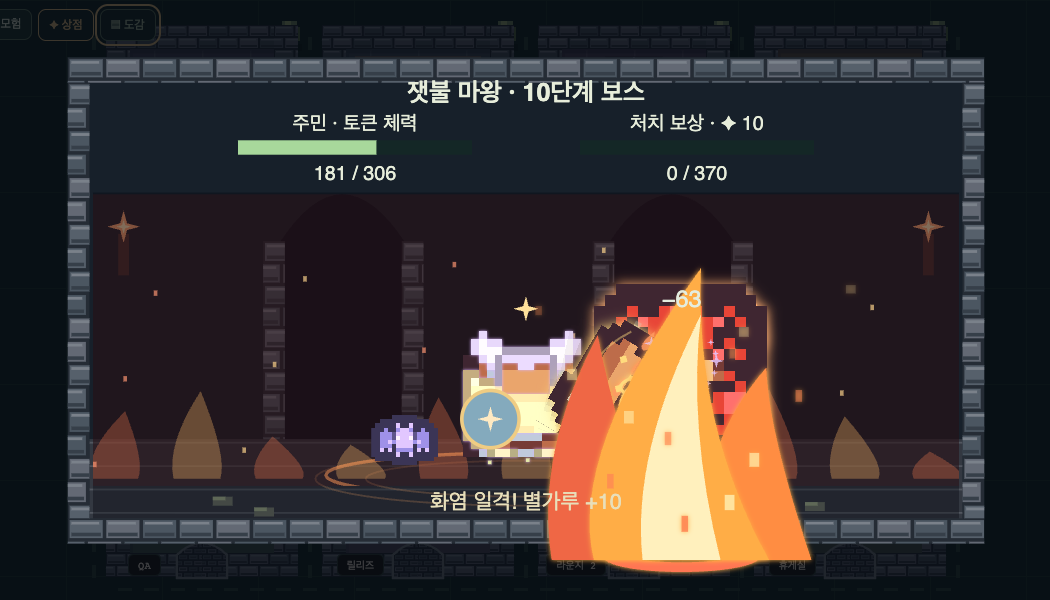
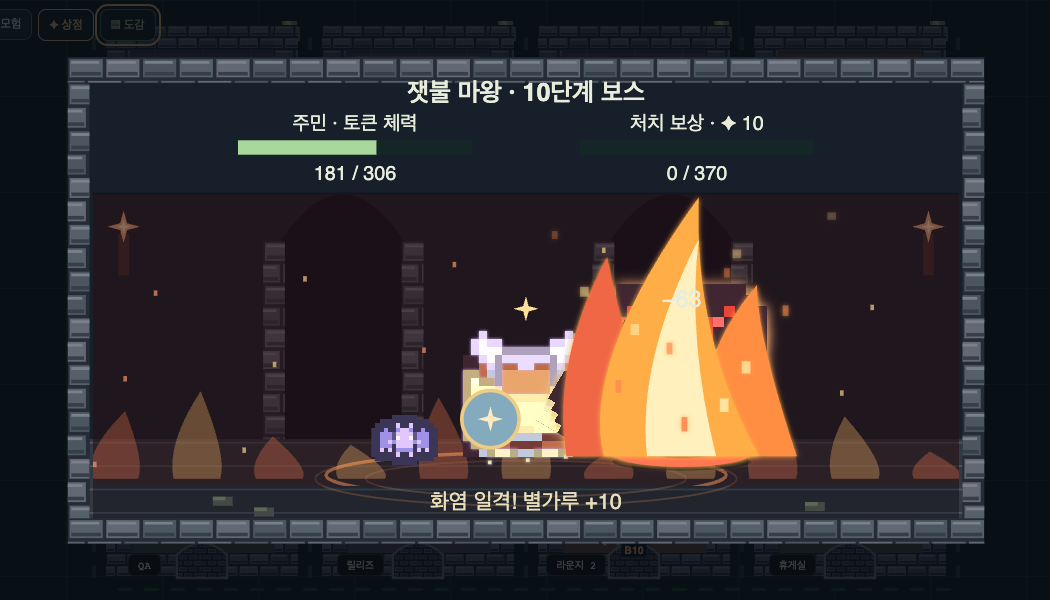
Rename app to AgentTown and dim the full window during battles

Changed region(s): [[0.5181, 0.33, 0.7924, 0.96], [0.7924, 0.48, 0.8229, 0.51], [0.4876, 0.51, 0.5181, 0.54]]

diff --git a/town.html b/town.html
@@ -1,5 +1,5 @@
 <!doctype html>
-<html lang="ko"><head><meta charset="utf-8"><meta name="viewport" content="width=device-width,initial-scale=1"><title>CodexTown · 나의 작은 작업실</title>
+<html lang="ko"><head><meta charset="utf-8"><meta name="viewport" content="width=device-width,initial-scale=1"><title>AgentTown · 나의 작은 작업실</title>
 <style>
   html,body{margin:0;height:100%;background:#2a2622;overflow:hidden}
   canvas{display:block;image-rendering:pixelated;cursor:grab}
@@ -46,7 +46,7 @@
 </style><link rel="stylesheet" href="/town-ui.css"><link rel="stylesheet" href="/town-journal.css"></head><body>
 <a class="skip-link" href="#task-search">작업 검색으로 이동</a>
 <header class="topbar">
-  <div class="brand"><canvas id="brand-avatar" width="32" height="32" class="brand-icon" aria-hidden="true"></canvas><div><h1>CodexTown</h1><small>나의 작은 작업실</small></div></div>
+  <div class="brand"><canvas id="brand-avatar" width="32" height="32" class="brand-icon" aria-hidden="true"></canvas><div><h1>AgentTown</h1><small>나의 작은 작업실</small></div></div>
   <div class="header-actions"><span class="live" id="connection-state" role="status"><i class="live-dot"></i><span>연결 중</span></span><button id="notification-toggle" class="quiet-button" aria-pressed="true" title="소리 없이 배너로 알립니다"><svg viewBox="0 0 24 24" fill="none" stroke="currentColor" stroke-width="1.5" aria-hidden="true"><path d="M18 8a6 6 0 0 0-12 0c0 7-3 7-3 9h18c0-2-3-2-3-9M10 21h4"/><path d="M3 3l18 18"/></svg><span>무음 배너</span></button><button class="mobile-roster-toggle" id="mobile-roster" aria-expanded="false" aria-controls="roster">작업 목록</button><time id="local-clock" class="header-time"></time></div>
 </header>
 <main class="workspace" id="workspace">
@@ -1556,7 +1556,7 @@ function drawDuelSpotlight() {
   const element=skill?.element??(pb?.upcoming?.final&&pb.upcoming.skill?pb.upcoming.element:undefined)??(pb?.hit?.final&&pb.hit.skill?pb.hit.element:window.townAdventure?.elementFor?.(d.winner)??hashSeed(d.winner.key)%5);
   const mood=pb?(pb.finalApproach?1:pb.charging?pb.charge:pb.skillApproach?.65:pb.skillCharging?pb.skillCharge*.65:skillHit?(1-impactAge/window.townAdventure.skillDuration)*.6:finalAge>=0?window.townAdventure.finishFade(finalAge,!!d.legendary):0):t<2.86?Math.max(0,Math.min(1,(t-1.9)/.96)):(window.townAdventure?.finishFade?.(t-2.86)||0);
   // Dim the scene around the final strike while keeping the combatants bright.
-  ctx.save();ctx.fillStyle=`rgba(4,10,15,${(.48+mood*.28)*opacity})`;ctx.fillRect(0,0,cv.width,cv.height);ctx.restore();
+  drawBattleBackdrop(`rgba(4,10,15,${(.48+mood*.28)*opacity})`);
   ctx.save();ctx.translate(cv.width/2,cv.height/2);
   ctx.scale(dpr*k*pop,dpr*k*pop);ctx.globalAlpha=opacity;
   const shake=impactAge>=0&&impactAge<.16?3*(1-impactAge/.16):0;
@@ -2795,14 +2795,20 @@ battleLayer.style.cssText='position:fixed;inset:0;margin:0;width:100vw;height:10
 const battleCanvas=document.createElement('canvas');battleCanvas.style.cssText='position:absolute;pointer-events:none';battleLayer.append(battleCanvas);document.body.append(battleLayer);
 const battleStyle=document.createElement('style');battleStyle.textContent='#battle-foreground::backdrop{background:transparent;pointer-events:none}';document.head.append(battleStyle);
 new MutationObserver(records=>{if(battleLayer.matches(':popover-open')&&records.some(r=>r.target.tagName==='DIALOG'&&r.target.open)){battleLayer.hidePopover();battleLayer.showPopover();}}).observe(document.body,{subtree:true,attributes:true,attributeFilter:['open']});
+function drawBattleBackdrop(color){
+ if(ctx.canvas===battleCanvas){battleBackdropColor=color;return;}
+ ctx.save();ctx.fillStyle=color;ctx.fillRect(0,0,cv.width,cv.height);ctx.restore();
+}
+let battleBackdropColor='transparent';
 function drawBattleForeground(){
  const live=window.townAdventure?.active||window.townEvents?.active||selectFeaturedDuel(performance.now());
  if(!live||window.townUI?.motionReduced){if(battleLayer.matches(':popover-open'))battleLayer.hidePopover();return;}
  if(!battleLayer.matches(':popover-open'))battleLayer.showPopover();
  const rect=cv.getBoundingClientRect();battleCanvas.style.left=rect.left+'px';battleCanvas.style.top=rect.top+'px';battleCanvas.style.width=rect.width+'px';battleCanvas.style.height=rect.height+'px';
  if(battleCanvas.width!==cv.width)battleCanvas.width=cv.width;if(battleCanvas.height!==cv.height)battleCanvas.height=cv.height;
+ battleBackdropColor='transparent';
  const mapContext=ctx;ctx=battleCanvas.getContext('2d');ctx.resetTransform();ctx.clearRect(0,0,cv.width,cv.height);ctx.imageSmoothingEnabled=false;
- try{drawDuelSpotlight();window.townAdventure?.drawBattle();window.townEvents?.drawBattle();}finally{ctx=mapContext;}
+ try{drawDuelSpotlight();window.townAdventure?.drawBattle();window.townEvents?.drawBattle();}finally{ctx=mapContext;battleLayer.style.background=battleBackdropColor;}
 }
 
 // --- 인터랙션: 휠 줌 · 드래그 팬 · 호버 툴팁 · 방 하이라이트 -------------------

diff --git a/app/src/main.js b/app/src/main.js
@@ -10,7 +10,9 @@ const URL = `http://127.0.0.1:${PORT}`;
 const ASSETS = path.join(__dirname, '..', 'assets');
 let win, tray, server, quitting = false;
 let notificationsEnabled = true;
-app.setName('CodexTown');
+// Preserve the existing Chromium profile, inventory and notification preferences.
+app.setPath('userData', path.join(app.getPath('appData'), 'CodexTown'));
+app.setName('AgentTown');
 if (!app.requestSingleInstanceLock()) app.quit();
 else {
   app.on('second-instance', (_event, argv) => {
@@ -19,7 +21,7 @@ else {
     else show();
   });
   app.whenReady().then(start).catch(err => {
-    dialog.showErrorBox('CodexTown 실행 실패', err.message);
+    dialog.showErrorBox('AgentTown 실행 실패', err.message);
     app.quit();
   });
 }
@@ -55,7 +57,7 @@ async function startServer() {
       if (failed || child.exitCode !== null) break;
       if (await health()) {
         child.on('exit', () => {
-          if (!quitting && server === child) dialog.showErrorBox('CodexTown 연결 종료', '세션 서버가 종료되었습니다. 앱을 다시 열어 주세요.');
+          if (!quitting && server === child) dialog.showErrorBox('AgentTown 연결 종료', '세션 서버가 종료되었습니다. 앱을 다시 열어 주세요.');
         });
         return;
       }
@@ -74,7 +76,7 @@ async function start() {
   if (process.platform === 'win32') app.setAppUserModelId('com.codextown.app');
   try { notificationsEnabled = JSON.parse(fs.readFileSync(path.join(app.getPath('userData'), 'preferences.json'), 'utf8')).notifications !== false; } catch {}
   await startServer();
-  win = new BrowserWindow({ width: 1440, height: 920, minWidth: 380, minHeight: 460, title: 'CodexTown',
+  win = new BrowserWindow({ width: 1440, height: 920, minWidth: 380, minHeight: 460, title: 'AgentTown',
     backgroundColor: '#122623', icon: path.join(ASSETS, 'icon.png'),
     webPreferences: { preload: path.join(__dirname, 'preload.js'), contextIsolation: true, nodeIntegration: false, sandbox: true, backgroundThrottling: false },
   });
@@ -86,10 +88,10 @@ async function start() {
   await win.loadURL(URL);
   let icon = nativeImage.createFromPath(path.join(ASSETS, 'icon.png')).resize({ width: 18, height: 18 });
   tray = new Tray(icon);
-  tray.setToolTip('CodexTown');
+  tray.setToolTip('AgentTown');
   tray.on('click', show);
   tray.setContextMenu(Menu.buildFromTemplate([
-    { label: 'CodexTown 열기', click: show },
+    { label: 'AgentTown 열기', click: show },
     { label: '알림 테스트', click: () => notifyWaiting({ title: '소리 없는 배너 알림입니다.', kind: 'ask' }) },
     { label: '항상 위에 표시', type: 'checkbox', click: item => win.setAlwaysOnTop(item.checked) },
     { type: 'separator' }, { label: '종료', click: () => app.quit() },
@@ -106,7 +108,7 @@ function notifyWaiting({ title, label, sid, kind }) {
   if (recentNotifications.has(key)) return;
   recentNotifications.set(key, now);
   const notification = new Notification({
-    title: kind === 'ask' ? 'CodexTown — 응답 요청' : 'CodexTown — 응답 완료',
+    title: kind === 'ask' ? 'AgentTown — 응답 요청' : 'AgentTown — 응답 완료',
     body: String(title || label || '작업을 확인해 주세요').slice(0, 180),
     silent: true,
   });
@@ -125,7 +127,7 @@ ipcMain.handle('notifications:set', (_event, enabled) => {
 ipcMain.handle('notifications:test', () => notifyWaiting({ title: '소리 없는 배너 알림입니다.', kind: 'ask' }));
 ipcMain.handle('notify-waiting', (_event, message) => notifyWaiting(message));
 ipcMain.on('waiting-count', (_event, count) => {
-  if (tray) tray.setToolTip(`CodexTown — 응답 대기 ${Math.max(0, Number(count) || 0)}개`);
+  if (tray) tray.setToolTip(`AgentTown — 응답 대기 ${Math.max(0, Number(count) || 0)}개`);
 });
 app.on('activate', show);
 app.on('window-all-closed', () => {});

diff --git a/tools/browser-battle-backdrop-e2e.js b/tools/browser-battle-backdrop-e2e.js
@@ -1,0 +1,20 @@
+async page=>{
+ await page.route('**/events',r=>r.fulfill({contentType:'text/event-stream',body:': fixture\n\n'}));await page.goto('http://127.0.0.1:8869');await page.waitForFunction(()=>window.townEvents&&SHEETS.dungeon.img);
+ const results=[];
+ for(const width of [960,1440]){
+  await page.setViewportSize({width,height:700});
+  await page.evaluate(()=>{cancelAnimationFrame(frameRequest);window.backdropNow=(window.backdropNow||100000)+1000000;performance.now=()=>backdropNow;townUI.motionReduced=false;townUI.roomView='all';updateRoomView();fitCanvas();townEvents.cancel();townAdventure.cancel();roomDuels.clear();for(const k of Object.keys(avatars))delete avatars[k];state.sessionInfo={};const r=ROOM_BY_ROLE.waiting;window.backdropActors=[0,1].map(i=>{const key='Backdrop|'+i,a=avatars[key]={key,proj:'Backdrop',sid:''+i,idx:84+i,role:'waiting',x:r.gx+2+i*2,y:r.gy+4,tx:r.gx+2+i*2,ty:r.gy+4};state.sessionInfo[key]={title:'전투 배경 확인 '+i,tokens:1e7,state:'working'};return a;});window.dispatchEvent(new Event('town:sessions'));});
+  for(const mode of ['monster','duel','raid']){
+   await page.evaluate(mode=>{townEvents.cancel();townAdventure.cancel();backdropNow+=70000;for(const d of roomDuels)endDuel(d);if(mode==='monster'){townAdventure.monsters.length=0;townAdventure.begin(backdropActors[0],townAdventure.spawn('waiting',true));}else if(mode==='duel'){backdropActors.forEach(a=>{a.duelAfter=0;});beginDuel(...backdropActors,performance.now());if(!backdropActors[0].duel)throw Error('duel fixture');backdropActors[0].duel.start-=500;stepDuels(performance.now());}else if(!townEvents.startRaid(backdropActors))throw Error('raid fixture');draw();},mode);
+   if(width<1100)await page.getByRole('button',{name:'작업 목록',exact:true}).click();
+   const state=await page.evaluate(()=>{draw();const layer=battleLayer.getBoundingClientRect(),panel=document.querySelector('.roster').getBoundingClientRect();return {open:battleLayer.matches(':popover-open'),color:getComputedStyle(battleLayer).backgroundColor,covers:layer.left<=panel.left&&layer.right>=panel.right&&layer.top<=panel.top&&layer.bottom>=panel.bottom};});
+   if(!state.open||!state.covers||state.color==='rgba(0, 0, 0, 0)')throw Error('roster not dimmed: '+JSON.stringify({width,mode,...state}));
+   await page.screenshot({path:'/tmp/agenttown-backdrop-'+width+'-'+mode+'.png'});
+   if(width<1100)await page.locator('.close-roster').click();
+   await page.evaluate(()=>{townEvents.cancel();townAdventure.cancel();for(const d of roomDuels)endDuel(d);draw();});
+   if(await page.locator('#battle-foreground').evaluate(e=>e.matches(':popover-open')))throw Error('backdrop remains after battle');
+   results.push({width,mode,color:state.color});
+  }
+ }
+ return results;
+}

diff --git a/app/test-notifications.js b/app/test-notifications.js
@@ -5,7 +5,7 @@ const fs = require('node:fs');
 const vm = require('node:vm');
 const path = require('node:path');
 function harness() {
-  const handlers = {}, shown = [], opened = [];
+  const handlers = {}, shown = [], opened = [], settings = {};
   class Notification {
     static isSupported() { return true; }
     constructor(options) { this.options = options; this.events = {}; }
@@ -13,7 +13,7 @@ function harness() {
     show() { shown.push(this); }
   }
   const electron = {
-    app: { setName() {}, requestSingleInstanceLock: () => false, quit() {}, on() {} },
+    app: { setName(name) {settings.name=name;}, getPath: () => '/fixture/appData', setPath(key,value) {settings[key]=value;}, requestSingleInstanceLock: () => false, quit() {}, on() {} },
     ipcMain: { handle: (name, fn) => handlers[name] = fn, on() {} },
     shell: { openExternal: async url => opened.push(url) }, Notification,
   };
@@ -21,7 +21,7 @@ function harness() {
     require: name => name === 'electron' ? electron : name === './server-command' ? require('./src/server-command') : require(name),
     __dirname: path.join(__dirname, 'src'), process, console, setTimeout,
   });
-  return { handlers, shown, opened };
+  return { handlers, shown, opened, settings };
 }
 test('question notification requests an answer and opens the exact task', async () => {
   const h = harness(), sid = '01a08a9a-847c-70a0-8a7b-ab6dcd26b65a';
@@ -36,4 +36,10 @@ test('question plus waiting transition produces only one notification', () => {
   h.handlers['notify-waiting']({}, { title: '테스트', sid, kind: 'ask' });
   h.handlers['notify-waiting']({}, { title: '테스트', sid, kind: 'waiting' });
   assert.equal(h.shown.length, 1);
+});
+
+test('AgentTown retains the existing CodexTown profile', () => {
+  const h=harness();
+  assert.equal(h.settings.name,'AgentTown');
+  assert.equal(h.settings.userData,path.join('/fixture/appData','CodexTown'));
 });

diff --git a/town-events.js b/town-events.js
@@ -169,7 +169,7 @@ function drawBattle(){
  const width=cv.width/dpr-24,height=cv.height/dpr-24;if(width<=0||height<=0)return;
  const arenaHeight=Math.min(470,310+Math.max(0,Math.ceil(r.members.length/4)-2)*36),arenaWidth=Math.min(820,Math.max(450,width/height*arenaHeight)),scale=Math.min(1.65,width/arenaWidth,height/arenaHeight),edge=arenaWidth/2,formation=raidFormation(r.members.length,arenaWidth,arenaHeight);
  const skillDuration=g.skillDuration||1.4,playerCharge=r.phase==='playerCharge',chargedMove=['playerApproach','playerWindup'].includes(r.phase)&&(r.finishing||r.pending.skill),charge=chargedMove?1:playerCharge?Math.min(1,(time-r.phaseAt)/(r.next-r.phaseAt)):r.phase==='bossWindup'&&(r.special||r.bossPlan?.kind==='wave')?Math.min(1,(time-r.phaseAt)/(r.next-r.phaseAt)):0,element=r.pending?.element??(r.actor?g.elementFor(r.actor.a):4)??4;
- ctx.save();ctx.fillStyle=`rgba(3,7,15,${.68+charge*.18})`;ctx.fillRect(0,0,cv.width,cv.height);ctx.translate(cv.width/2,cv.height/2);ctx.scale(dpr*scale,dpr*scale);
+ drawBattleBackdrop(`rgba(3,7,15,${.68+charge*.18})`);ctx.save();ctx.translate(cv.width/2,cv.height/2);ctx.scale(dpr*scale,dpr*scale);
  ctx.save();ctx.scale(1,arenaHeight/270);g.chamber?.(r.monster.kind,arenaWidth);ctx.restore();ctx.fillStyle='#13202b';ctx.fillRect(-edge+14,-arenaHeight/2+10,arenaWidth-28,64);g.atmosphere?.(playerCharge||chargedMove?element:4,charge,t,arenaWidth,formation.bossY+10,false);
  ctx.textAlign='center';ctx.fillStyle='#e8d5ff';ctx.font='bold 15px sans-serif';ctx.fillText('공동 토벌 · 균열의 월식 군주',0,-arenaHeight/2+30);
  ctx.fillStyle='#2e273d';ctx.fillRect(-140,-arenaHeight/2+42,280,9);ctx.fillStyle='#ce97e9';ctx.fillRect(-140,-arenaHeight/2+42,280*r.hp/r.maxHp,9);ctx.font='10px sans-serif';ctx.fillStyle='#ebdfef';ctx.fillText(r.hp+' / '+r.maxHp+' · '+r.members.length+'명 참가',0,-arenaHeight/2+66);

diff --git a/town-adventure.js b/town-adventure.js
@@ -441,7 +441,7 @@ function drawBattle(){if(!battle)return;const b=battle,now=performance.now(),t=(
  const width=cv.width/dpr-24,height=cv.height/dpr-24;if(width<=0||height<=0)return;
  const arenaWidth=Math.min(520,Math.max(380,width/height*270)),scale=Math.min(1.8,width/arenaWidth,height/270);
  const mood=chargedMove?1:charge?Math.min(1,Math.max(0,1-(b.next-280-now)/(b.windup||3000))):b.done&&b.won?finishFade(age,b.legendary):skillCharge?cast*.65:skillImpact?(1-age/skillDuration)*.6:0;
- ctx.save();ctx.fillStyle=`rgba(4,8,16,${.55+Math.max(mood,bossMood)*.25})`;ctx.fillRect(0,0,cv.width,cv.height);ctx.translate(cv.width/2,cv.height/2);ctx.scale(dpr*scale,dpr*scale);
+ drawBattleBackdrop(`rgba(4,8,16,${.55+Math.max(mood,bossMood)*.25})`);ctx.save();ctx.translate(cv.width/2,cv.height/2);ctx.scale(dpr*scale,dpr*scale);
  chamber(b.m.kind,arenaWidth);
  ctx.fillStyle=`rgba(2,4,12,${mood*.42})`;ctx.fillRect(-arenaWidth/2+14,-60,arenaWidth-28,181);
  atmosphere(bossMood?bossElement:skillCharge||chargedMove&&!b.finishing?b.nextHit.element:skillImpact?b.attackElement:b.element,Math.max(mood,bossMood),t,arenaWidth,99,b.legendary&&!bossMood&&!skillCharge&&!skillImpact&&(!chargedMove||b.finishing));ctx.textAlign='center';ctx.font='600 14px sans-serif';ctx.fillStyle='#e7edda';ctx.fillText(`${b.m.name} · ${b.m.level}단계`+(b.m.elite?' 정예 보스':b.m.boss?' 보스':''),0,-111);

diff --git a/tools/package-windows-zip.py b/tools/package-windows-zip.py
@@ -13,44 +13,44 @@ import urllib.request
 import zipfile
 
 ROOT = Path(__file__).resolve().parents[1]
-OUTPUT = ROOT / 'downloads' / 'CodexTown-Windows-x64.zip'
+OUTPUT = ROOT / 'downloads' / 'AgentTown-Windows-x64.zip'
 PYTHON_URL = 'https://www.python.org/ftp/python/3.12.10/python-3.12.10-embed-amd64.zip'
 INSTALL = r'''@echo off
 setlocal
-set "CODEXTOWN_INSTALL=%LOCALAPPDATA%\Programs\CodexTown"
-tasklist /FI "IMAGENAME eq CodexTown.exe" /NH 2>nul | find /I "CodexTown.exe" >nul
+set "CODEXTOWN_INSTALL=%LOCALAPPDATA%\Programs\AgentTown"
+tasklist /FI "IMAGENAME eq AgentTown.exe" /NH 2>nul | find /I "AgentTown.exe" >nul
 if not errorlevel 1 (
-  echo Please quit CodexTown from its tray menu, then run this installer again.
+  echo Please quit AgentTown from its tray menu, then run this installer again.
   pause
   exit /b 1
 )
-if not exist "%~dp0app\CodexTown.exe" (
+if not exist "%~dp0app\AgentTown.exe" (
   echo Extract the entire ZIP first. Do not run this file inside the ZIP.
   pause
   exit /b 1
 )
-echo Installing CodexTown for the current user...
+echo Installing AgentTown for the current user...
 robocopy "%~dp0app" "%CODEXTOWN_INSTALL%" /E /R:2 /W:1 /NFL /NDL /NJH /NJS >nul
 if errorlevel 8 goto failed
-powershell.exe -NoProfile -NonInteractive -Command "$w=New-Object -ComObject WScript.Shell; foreach($folder in @([Environment]::GetFolderPath('Desktop'),[Environment]::GetFolderPath('Programs'))){$s=$w.CreateShortcut((Join-Path $folder 'CodexTown.lnk'));$s.TargetPath=Join-Path $env:CODEXTOWN_INSTALL 'CodexTown.exe';$s.WorkingDirectory=$env:CODEXTOWN_INSTALL;$s.IconLocation=Join-Path $env:CODEXTOWN_INSTALL 'resources\app\assets\claudetown.ico';$s.Save()}"
+powershell.exe -NoProfile -NonInteractive -Command "$w=New-Object -ComObject WScript.Shell; foreach($folder in @([Environment]::GetFolderPath('Desktop'),[Environment]::GetFolderPath('Programs'))){$s=$w.CreateShortcut((Join-Path $folder 'AgentTown.lnk'));$s.TargetPath=Join-Path $env:CODEXTOWN_INSTALL 'AgentTown.exe';$s.WorkingDirectory=$env:CODEXTOWN_INSTALL;$s.IconLocation=Join-Path $env:CODEXTOWN_INSTALL 'resources\app\assets\claudetown.ico';$s.Save()}"
 if errorlevel 1 goto failed
-echo Installation complete. Opening CodexTown...
-start "" "%CODEXTOWN_INSTALL%\CodexTown.exe"
+echo Installation complete. Opening AgentTown...
+start "" "%CODEXTOWN_INSTALL%\AgentTown.exe"
 exit /b 0
 :failed
 echo Installation failed. Please keep this window open and share the error.
 pause
 exit /b 1
 '''
-GUIDE = '''CodexTown Windows 설치
+GUIDE = '''AgentTown Windows 설치
 
 1. ZIP을 전부 압축 해제합니다. 압축 파일 안에서 바로 실행하지 마세요.
 2. 설치.cmd를 더블클릭합니다. 현재 사용자 폴더에 설치하고 바탕화면과 시작 메뉴에 바로가기를 만듭니다.
-3. 다음부터는 CodexTown 바로가기로 실행합니다.
+3. 다음부터는 AgentTown 바로가기로 실행합니다.
 
 관리자 권한, Python, Node.js 별도 설치가 필요 없는 Windows x64 패키지입니다.
-설치 위치: %LOCALAPPDATA%\\Programs\\CodexTown
-설치하지 않고 쓰려면 app 폴더의 CodexTown.exe를 실행해도 됩니다.
+설치 위치: %LOCALAPPDATA%\\Programs\\AgentTown
+설치하지 않고 쓰려면 app 폴더의 AgentTown.exe를 실행해도 됩니다.
 업데이트할 때는 트레이 메뉴의 종료로 앱을 완전히 종료한 뒤 새 ZIP의 설치.cmd를 실행합니다.
 
 본인 PC에서 Codex를 사용한 기록이 있어야 캐릭터가 나옵니다.
@@ -73,11 +73,11 @@ def package(electron_zip):
     OUTPUT.parent.mkdir(exist_ok=True)
     with tempfile.TemporaryDirectory(prefix='codextown-windows-') as temporary:
         stage = Path(temporary)
-        bundle = stage / 'CodexTown-Windows'
+        bundle = stage / 'AgentTown-Windows'
         app = bundle / 'app'
         with zipfile.ZipFile(electron_zip) as archive:
             archive.extractall(app)
-        (app / 'electron.exe').rename(app / 'CodexTown.exe')
+        (app / 'electron.exe').rename(app / 'AgentTown.exe')
         (app / 'resources/default_app.asar').unlink(missing_ok=True)
         resources = app / 'resources'
         payload = resources / 'app'
@@ -91,7 +91,7 @@ def package(electron_zip):
             shutil.copy2(ROOT / name, server / name)
         shutil.copytree(ROOT / 'assets', server / 'assets')
         (payload / 'package.json').write_text(json.dumps({
-            'name': 'codextown-app', 'productName': 'CodexTown', 'version': '1.0.0', 'main': 'src/main.js'
+            'name': 'codextown-app', 'productName': 'AgentTown', 'version': '1.0.0', 'main': 'src/main.js'
         }), encoding='utf-8')
         python_zip = stage / 'python.zip'
         with urllib.request.urlopen(PYTHON_URL, timeout=60) as response:

diff --git a/codextown.py b/codextown.py
@@ -1,5 +1,5 @@
 #!/usr/bin/env python3
-"""CodexTown: read-only Codex session viewer, using ClaudeTown's map renderer."""
+"""AgentTown: read-only Codex session viewer, using ClaudeTown's map renderer."""
 import hashlib
 import json
 import math
@@ -430,7 +430,7 @@ def main():
     threading.Thread(target=town.poll_loop, args=(tailer,), daemon=True).start()
     threading.Thread(target=usage.loop, daemon=True).start()
     url = f'http://127.0.0.1:{PORT}/'
-    print(f'CodexTown → {url}', flush=True)
+    print(f'AgentTown → {url}', flush=True)
     if '--no-browser' not in sys.argv:
         town.open_browser(url)
     try:

diff --git a/app/tools/draw-icon.py b/app/tools/draw-icon.py
@@ -1,5 +1,5 @@
 #!/usr/bin/env python3
-"""Compatibility entry point: package the approved CodexTown icon artwork.
+"""Compatibility entry point: package the approved AgentTown icon artwork.
 
 Requires the app's existing npm dependencies (Electron); no Python packages.
 The original is app/design/icon-source.png. Run `npm --prefix app run icons`

diff --git a/README.md b/README.md
@@ -1,10 +1,10 @@
 <div align="center">
 
-# CodexTown
+# AgentTown
 
 ### 코딩하는 동안, 작은 마을에서는 모험이 시작됩니다.
 
-**Codex 세션을 도트 캐릭터로 만나는 로컬 작업실.**<br>
+**AI 에이전트의 작업을 도트 캐릭터로 만나는 로컬 작업실.**<br>
 문을 열고 출근하고, 몬스터와 싸우고, 가끔은 작은 주민이 전설의 검을 뽑습니다.
 
 **실시간 세션 · 무음 알림 · 던전 전투 · 장비와 펫 · 공동 토벌**
@@ -13,7 +13,7 @@
 
 </div>
 
-![12개 방과 작업 목록이 있는 CodexTown의 실제 실행 화면](docs/images/town.png)
+![12개 방과 작업 목록이 있는 AgentTown의 실제 실행 화면](docs/images/town.png)
 
 > 이 페이지의 이미지는 **실제 앱에서 캡처**했습니다. 공개 촬영을 위해 세션 제목·토큰·사용량·장비와 전투 상황은 데모 데이터로 구성했습니다. 화면과 기술 효과는 현재 구현된 렌더러를 그대로 사용합니다.
 
@@ -94,21 +94,35 @@
 
 ## 시작하기
 
-**Codex의 로컬 작업 기록이 있는 PC**에서 사용합니다. 일반 ChatGPT 웹 대화를 읽는 앱은 아닙니다.
+**기본 데스크톱 앱은 Codex의 로컬 작업 기록이 있는 PC**에서 사용합니다. Claude Code 기록용 모듈도 포함되어 있으며, 별도 실행 방법은 아래 안내를 참고하세요. 일반 ChatGPT 웹 대화를 읽는 앱은 아닙니다.
 
 | 환경 | 실행 방법 |
 | --- | --- |
-| macOS 앱 | 전달받거나 직접 빌드한 `CodexTown.app` 실행. 창을 닫으면 메뉴 막대에 남습니다. |
-| Windows ZIP | `CodexTown-Windows-x64.zip` 전체 압축 해제 → `설치.cmd` 실행. Python·Node.js 별도 설치 없이 사용합니다. |
+| macOS 앱 | 전달받거나 직접 빌드한 `AgentTown.app` 실행. 창을 닫으면 메뉴 막대에 남습니다. |
+| Windows ZIP | `AgentTown-Windows-x64.zip` 전체 압축 해제 → `설치.cmd` 실행. Python·Node.js 별도 설치 없이 사용합니다. |
 | 소스에서 실행 | Python 3 환경에서 저장소 루트의 `./launch.sh` 실행 → `http://127.0.0.1:8766` 접속. |
 
 **설치 파일은 소스 저장소에 포함되어 있지 않습니다.** 패키지 생성, Windows EXE 빌드, 환경 변수와 플랫폼별 검증 범위는 [설치·실행 안내](docs/INSTALL.md)에 정리했습니다.
 
 ```sh
-git clone https://github.com/Harry1757/codextown.git
-cd codextown
+git clone https://github.com/Harry1757/agenttown.git
+cd agenttown
 ./launch.sh
 ```
+
+### Claude Code로 실행하기
+
+Claude Code의 로컬 기록은 별도 진입점으로 읽을 수 있습니다.
+
+```sh
+python3 claudetown.py
+```
+
+기본 접속 주소는 `http://127.0.0.1:8765`입니다. 현재 데스크톱 앱의 기본 서버와 계정 한도 조회·작업 바로 열기는 Codex용입니다. 두 제공자의 기록을 한 목록으로 합치는 기능은 아직 제공하지 않습니다.
+
+### 기존 CodexTown 사용자
+
+앱 이름을 AgentTown으로 바꿨습니다. 기존 장비·별가루·도감·알림 설정을 이어 쓰도록 저장 폴더와 내부 식별자는 유지합니다. `CODEXTOWN_*` 환경 변수도 그대로 사용할 수 있습니다.
 
 ### 내 작업 기록은 어디로 가나요?
 
@@ -127,6 +141,6 @@ ClaudeTown의 도트 마을에서 시작해 Codex 작업실과 작은 던전 모
 <div align="center">
 
 **작업은 차근차근. 모험은 틈틈이.**<br>
-CodexTown · 나의 작은 작업실
+AgentTown · 나의 작은 작업실
 
 </div>

diff --git a/docs/images/README.md b/docs/images/README.md
@@ -1,6 +1,6 @@
 # README 화면 캡처
 
-2026-09-15, 앱 코드 `547f336`을 로컬 Chrome에서 실행해 촬영했습니다.
+2026-09-15, AgentTown으로 이름을 변경한 앱 코드를 로컬 Chrome에서 실행해 촬영했습니다.
 
 - 실제 Canvas 렌더러와 상점·도감 화면을 사용했습니다. 별도의 콘셉트 이미지나 합성 UI가 아닙니다.
 - 격리된 브라우저에서 `/events`와 `/api/usage` 응답을 데모로 대체했습니다. 실제 세션이나 계정 정보는 포함하지 않습니다.
